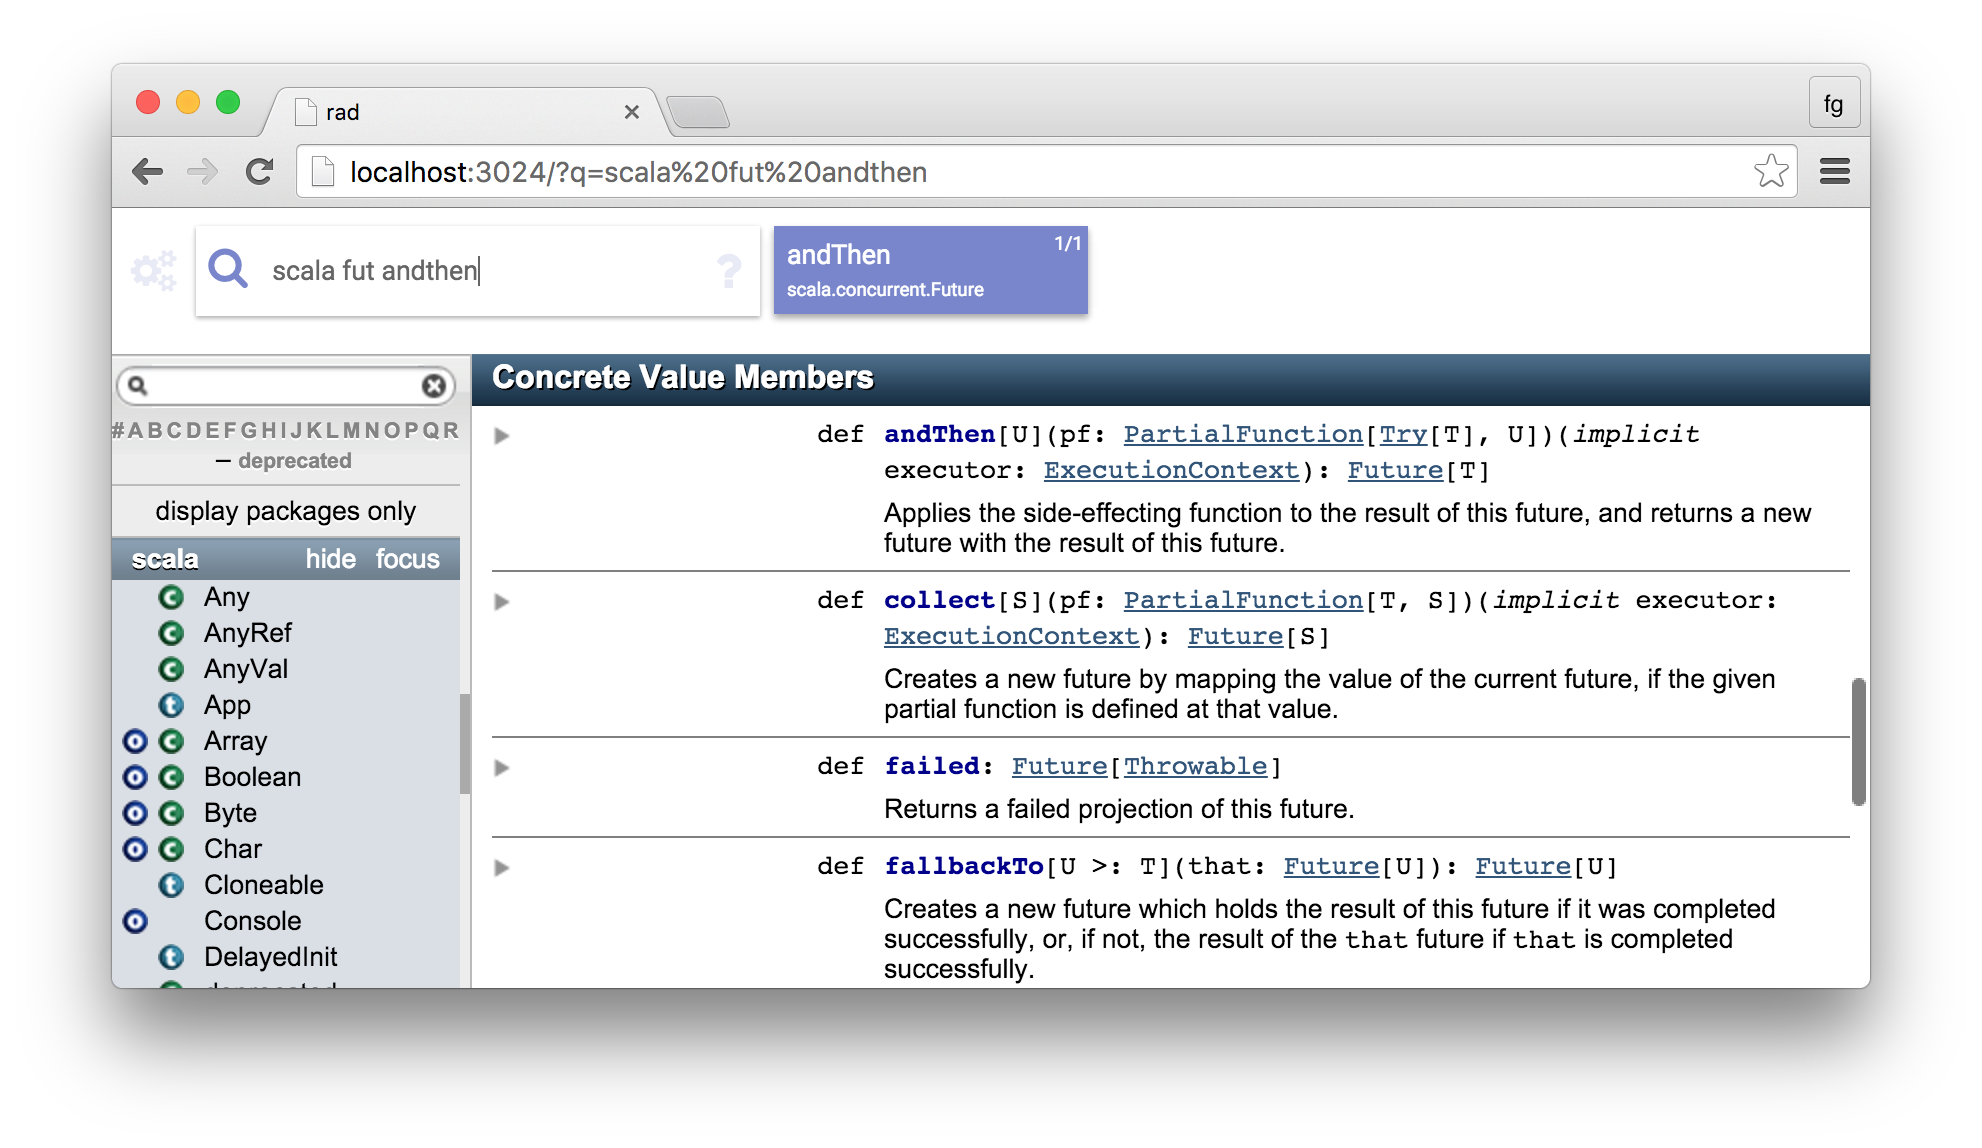
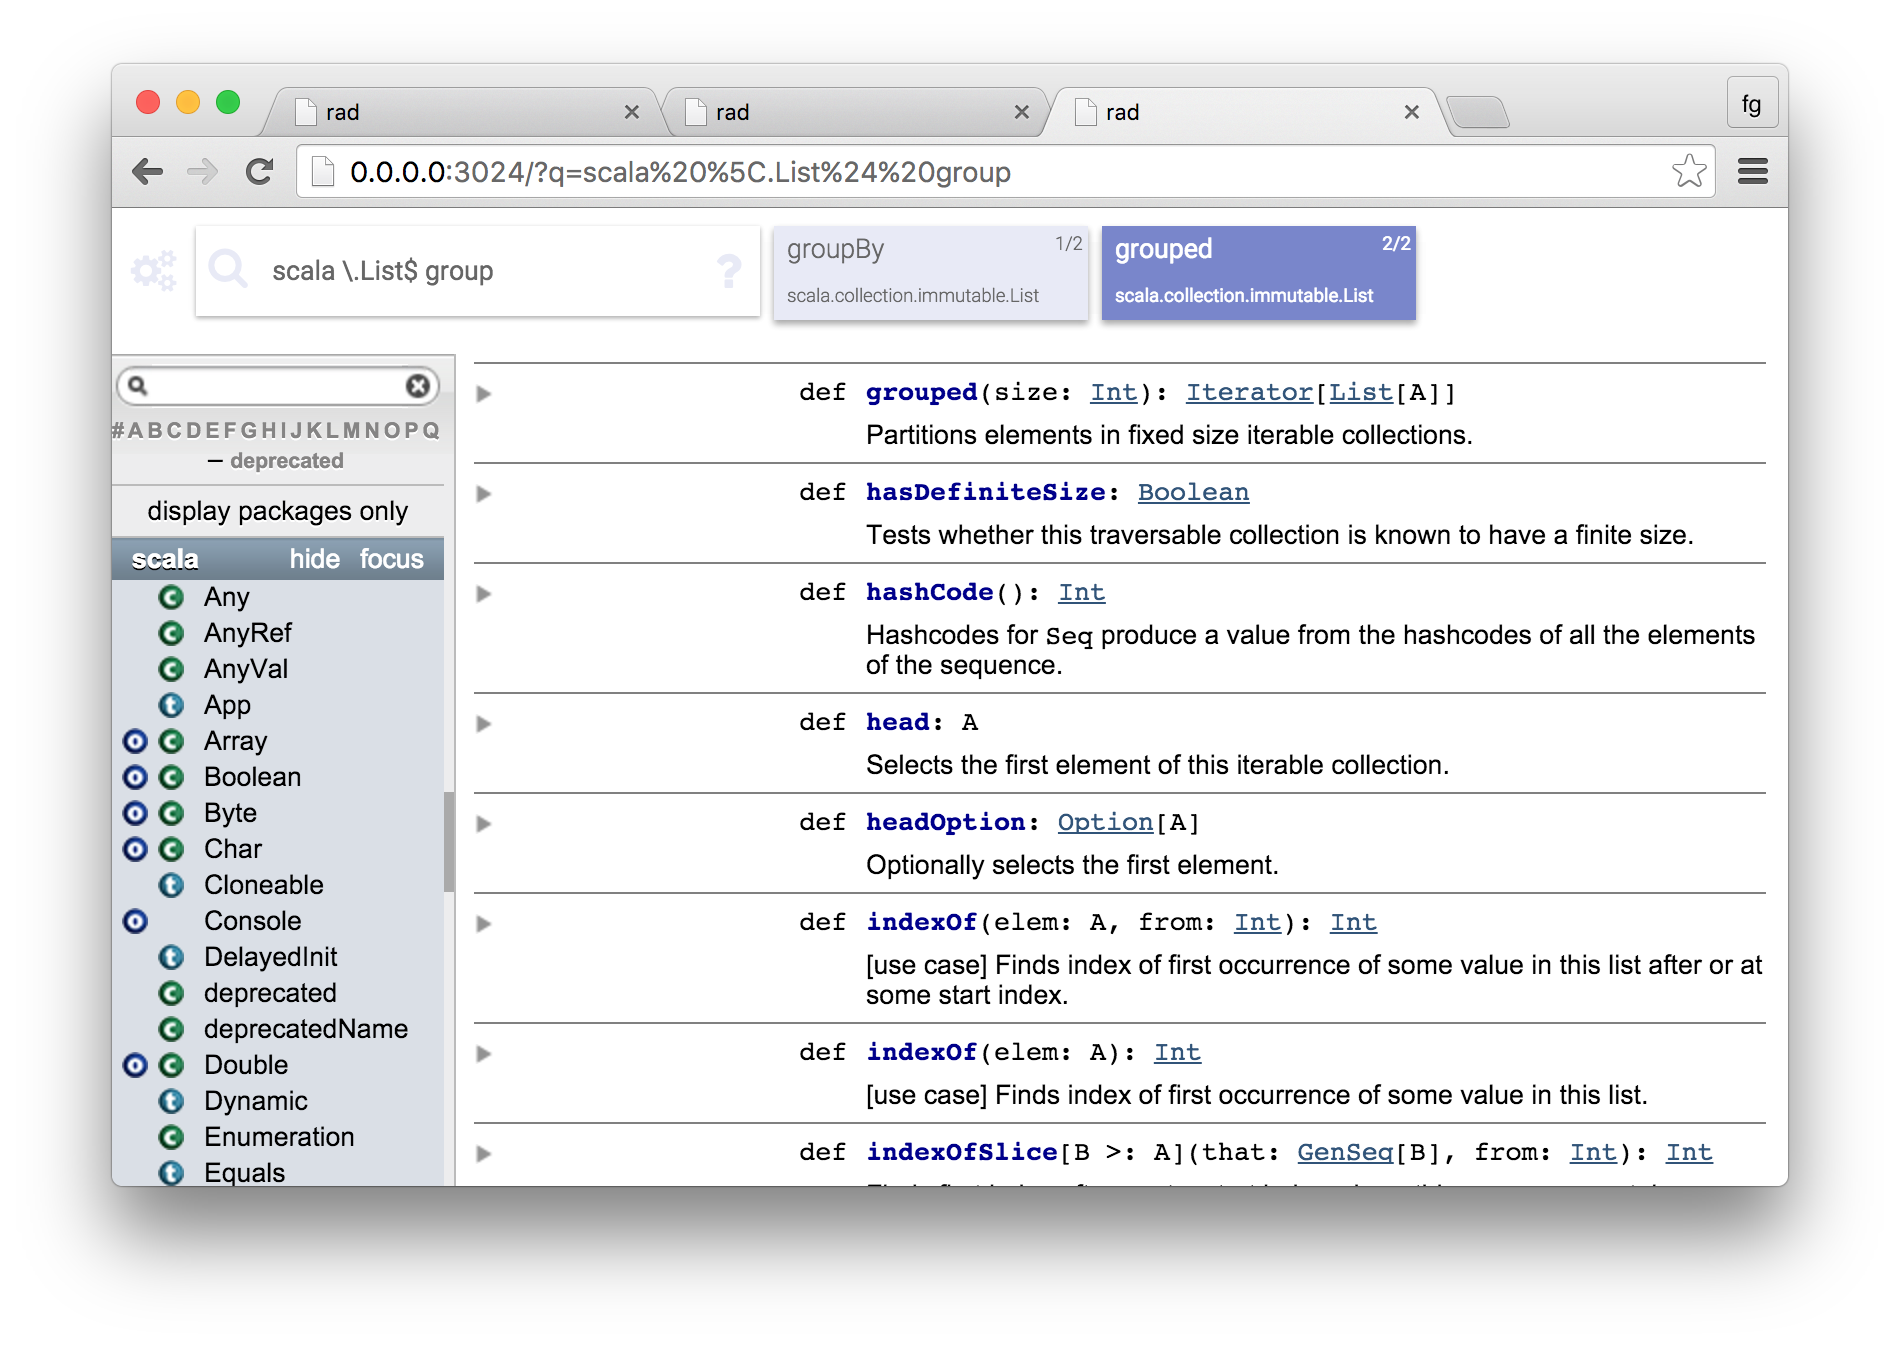
Adds more details to README.

Changed region(s): [[0.0311, 0.0305, 0.9626, 0.8841], [0.2484, 0.7317, 0.2795, 0.7622]]

diff --git a/README.md b/README.md
@@ -1,8 +1,16 @@
-# rad api docs
+# rad - read api docs
 
 Open source app to read API docs offline.
 
-Releases available [here](http://geller.io/rad/).
+## Quick start:
+
+Download a release and then:
+
+    tar Jxf sad-RELEASE-INFO.xz && ./sad
+
+Snapshot releases are available [here](http://geller.io/rad/).
+
+## Pictures!
 
 Start screen:
 
@@ -12,7 +20,7 @@ Searching Go's stdlib:
 
 ![Go](https://raw.githubusercontent.com/fgeller/rad/master/screenshots/go.png)
 
-Searching Scala's stdlib:
+Searching Scala's stdlib using regular expressions:
 
 ![Scala](https://raw.githubusercontent.com/fgeller/rad/master/screenshots/scala.png)
 
@@ -22,8 +30,123 @@ Displaying installed and available packs:
 
 ## Why?
 
+I enjoy open source software and hacking on my projects while on the go or in
+cafes. And this project gave me an excuse to learn more about
+[Go](https://golang.org) and [react.js](https://facebook.github.io/react/) :)
+
+![https://golang.org/doc/faq#Whats_the_origin_of_the_mascot](https://golang.org/doc/gopher/pencil/gopherswrench.jpg)
+
 ## How?
+
+rad is split into multiple components:
+
+* `sad`: web app to serve API docs including a UI.
+* `pad`: app to package API docs.
+* `sap`: web app to serve documentation packs.
+
+All three apps are written in Go and the `sad` front-end uses react.js and plain
+old HTML/Javascript. `sad` uses web-sockets and Go's channels for streaming
+results immediately to the UI.
+
+### Pack format
+
+Packs are zip archives with the following structure:
+
+    pack-name
+     |
+     |-- pack.json
+     |-- data.json
+     `-- html-contents
+       |
+       |-- first.html
+       `-- second.html
+
+They contain a top-level directory that has the same name as the pack. The pack
+name is used to identify the pack for searching, in the above example the name
+is `pack-name`. The top-level directory contains two data files that include
+meta-data about the pack `pack.json` and the documentation entries `data.json`.
+
+A `pack.json` file has at least the following information: Name, Type, Version, Created, Description. Consider the following example:
+
+    {
+      "Name": "pack-name",
+      "Type": "go",
+      "Version": "3.1.4",
+      "Created": "2015-10-25T15:42:01.936261923+13:00",
+      "Description": "This is an <i>HTML</i> string containing source and copyright information."
+    }
+
+The `data.json` file contains the entries that `sad` will index and search. An
+entry is grouped under a path and contains member entries that are defined by a
+name and a relative link to their location within the pack archive. Consider the
+following example:
+
+    [
+      {
+        "Path": "com.example.super",
+        "Members": [
+          {
+            "Name": "Driver",
+            "Target": "html-contents/first.html#Driver"
+          }
+        ]
+      },
+      {
+        "Path": "com.example.super",
+        "Members": [
+          {
+            "Name": "Runner",
+            "Target": "html-contents/second.html#Runner"
+          }
+        ]
+      }
+    ]
+
 
 ## Integrations
 
-## Contributions
+While `sad` includes a UI, it might be faster or more convenient to query
+through one of the following intergations:
+
+### Browser
+
+You can save some key strokes by assigning a custom search engine keyword to
+`rad`. For example in Chrome:
+
+![Chrome Search Engine](https://raw.githubusercontent.com/fgeller/rad/master/screenshots/chrome-search-engine.png)
+
+This will allow you to search for documentation by using a custom keyword
+directly from the location bar. To speed things up even more, you can enable
+live loading of documentation in `rad` settings:
+
+![Live updates](https://raw.githubusercontent.com/fgeller/rad/master/screenshots/live-updates.png)
+
+This will allow you to jump directly to the first result after you've entered a
+query in the location bar (`shift + →` and `shift + ←` will cycle through the
+search results if the query wasn't unique).
+
+### HUBOT + Slack
+
+[rad.coffee](https://github.com/fgeller/rad/blob/master/integrations/rad.coffee)
+is a small [HUBOT](https://hubot.github.com) script that works with the Slack
+adapter:
+
+![HUBOT + Slack](https://raw.githubusercontent.com/fgeller/rad/master/screenshots/hubot-slack.png)
+
+You start a query with the keyword `rad` and the results are links to a running
+`sad` instance.
+
+## Missing packs and contributions
+
+The currently included packs are driven by my use and what friends are
+interested in -- if you'd like to see another pack included please create an
+[issue](https://github.com/fgeller/rad/issues/new) or even send me a wrapped
+pack :)
+
+## Others
+
+* [Dash](https://kapeli.com) - Very mature OSX app with lots of packs available.
+* [DevDocs](http://devdocs.io) - Web app that supports offline mode with lots of packs especially for front-end tech.
+
+<br /><br />
+<p align="center"><sup>Made with ❤ in Piha.</sup></p>
